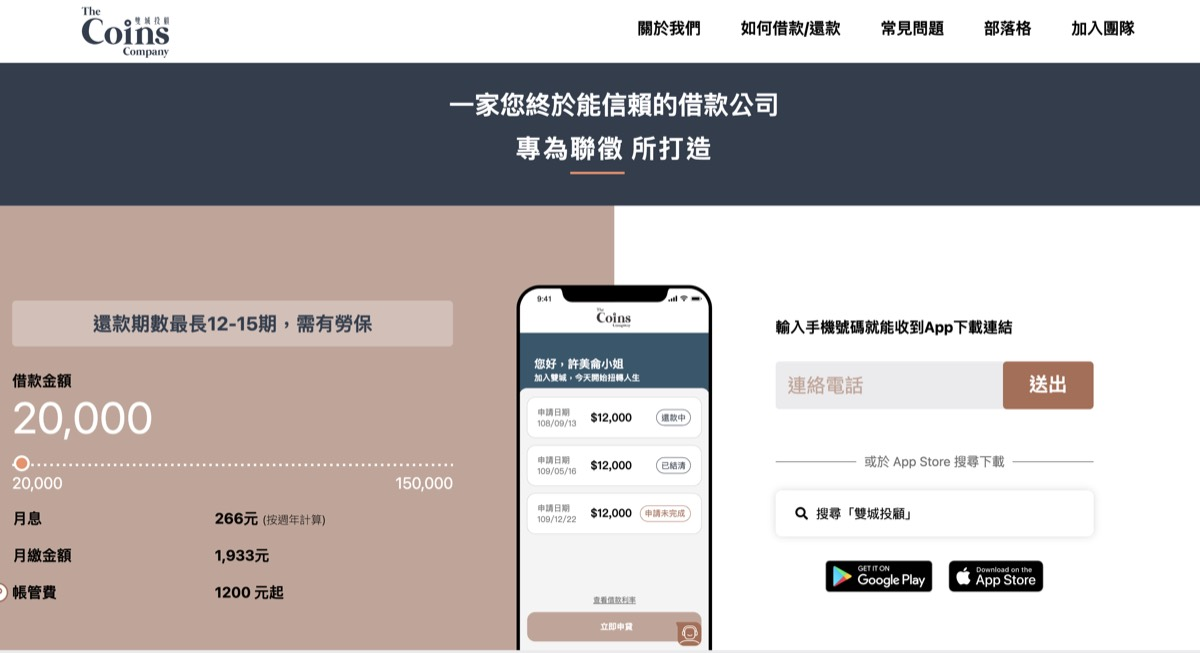
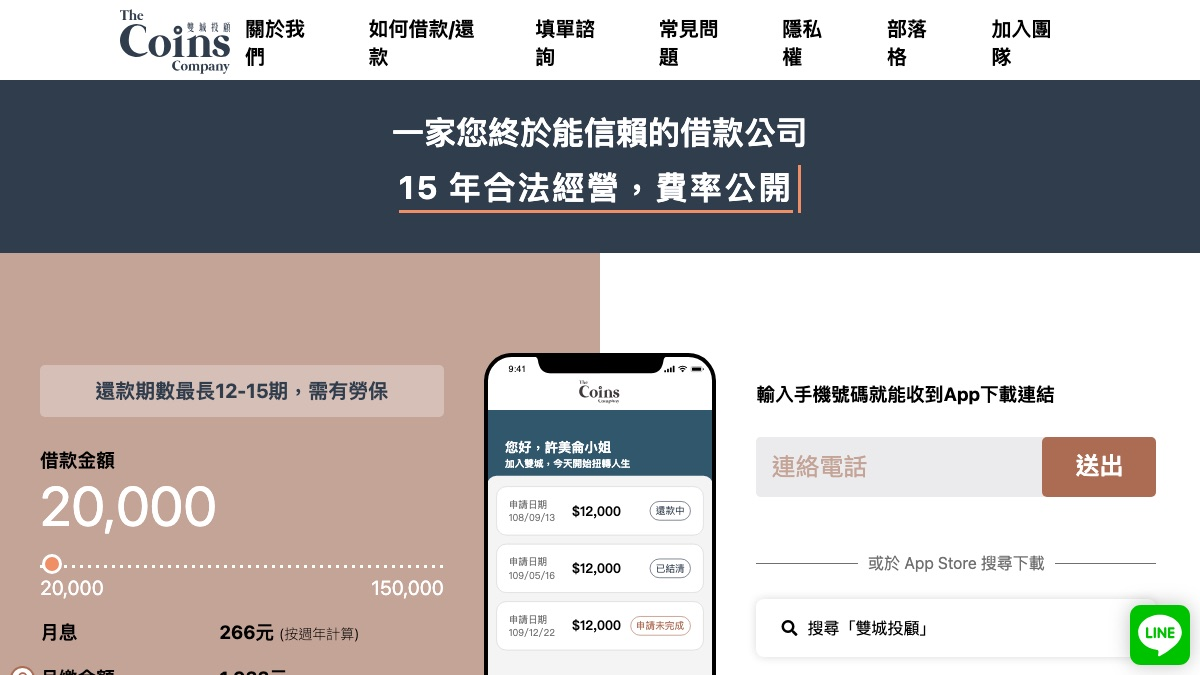
feat(resume): 內容向 Thingnario 全端職缺靠攏並統一封面樣式
- 文案聚焦 Node.js / TypeScript / React，去除誇大與 AI 味用語（中英同步）
- 封面說明整合為單一 Block，樣式沿用共用元件，移除重複的毛玻璃樣式
- 專案作品補上 Coffee Chat，並為線上網站重新截圖（16:9）
- 專案縮圖統一 aspect-ratio 16/9

diff --git a/src/pages/Cover/Cover.scss b/src/pages/Cover/Cover.scss
@@ -9,7 +9,9 @@
   display: flex;
   justify-content: center;
   align-items: center;
-  padding: 2rem;
+  // 水平間距交給外層 App 的 container/px-4，這裡不再額外內縮，
+  // 否則封面卡片會比下方 Block 多縮 2rem，左右邊緣對不齊
+  padding: 2rem 0;
   position: relative;
   // Removed solid background and overlay to let App background show
 }
@@ -72,45 +74,24 @@
     }
   }
 
-  .description_grid {
-    display: grid;
-    grid-template-columns: 1fr;
-    gap: 1.5rem;
+  // 外觀（底色、圓角、陰影）一律沿用 Block，這裡只負責內距與文字
+  .desc_item {
+    padding: 1.5rem;
 
-    @include tablet-up {
-      grid-template-columns: 1fr 1fr;
-    }
-
-    .desc_item {
-      // Match Block style: bg-white/black with opacity
-      background: rgba(255, 255, 255, 0.9);
-      backdrop-filter: blur(5px);
-      padding: 1.5rem;
-      border-radius: 15px; // Match content_block border-radius
-      box-shadow: 0 4px 6px -1px rgba(0, 0, 0, 0.05);
-      transition:
-        transform 0.3s ease,
-        box-shadow 0.3s ease;
+    p {
+      margin: 0;
+      line-height: 1.6;
+      color: $text-color;
+      font-size: 0.95rem;
+      // 與下方 Block 的內文一致靠左，不隨標題置中
+      text-align: left;
 
       .dark & {
-        background: rgba(0, 0, 0, 0.8);
-        border: 1px solid rgba(255, 255, 255, 0.1);
+        color: #d1d5db; // gray-300
       }
 
-      &:hover {
-        transform: translateY(-5px);
-        box-shadow: 0 10px 15px -3px rgba(0, 0, 0, 0.1);
-      }
-
-      p {
-        margin: 0;
-        line-height: 1.6;
-        color: $text-color;
-        font-size: 0.95rem;
-
-        .dark & {
-          color: #d1d5db; // gray-300
-        }
+      + p {
+        margin-top: 1rem;
       }
     }
   }

diff --git a/src/pages/Cover/Cover.js b/src/pages/Cover/Cover.js
@@ -3,6 +3,7 @@ import { useTranslation } from "react-i18next";
 
 import "./Cover.scss";
 import profileImg from "../../img/profile.jpg";
+import Block from "../../components/Block";
 
 const Cover = () => {
   const { t } = useTranslation("cover");
@@ -14,14 +15,10 @@ const Cover = () => {
           <h1>{t("title")}</h1>
           <div className="subtitle">{t("subtitle")}</div>
 
-          <div className="description_grid">
-            <div className="desc_item">
-              <p>{t("description.intro")}</p>
-            </div>
-            <div className="desc_item">
-              <p>{t("description.specialization")}</p>
-            </div>
-          </div>
+          <Block className="desc_item">
+            <p>{t("description.intro")}</p>
+            <p>{t("description.specialization")}</p>
+          </Block>
         </div>
 
         <div className="cover_profile_section">

diff --git a/public/index.html b/public/index.html
@@ -7,16 +7,16 @@
     <meta name="theme-color" content="#000000" />
     <meta
       name="description"
-      content="余勝允 (Brian Yu) 的個人作品集。8 年軟體開發經驗，現為 AI 工程師，獨立開發交友配對與活動揪團社群 App，從產品規劃、AI 實作到 iOS 上架。"
+      content="余勝允 (Brian Yu) 的個人作品集。8 年 Node.js / TypeScript 全端開發經驗，專長 NestJS 後端與 React 前端、程式重構與效能優化；現為 AI 工程師，獨立開發交友配對與活動揪團社群 App。"
     />
     <link rel="canonical" href="https://brianYuDesign.github.io/szu-yu-project/" />
 
     <!-- Open Graph -->
     <meta property="og:type" content="website" />
-    <meta property="og:title" content="余勝允 Brian Yu | AI 工程師 / 全端開發者" />
+    <meta property="og:title" content="余勝允 Brian Yu | 全端工程師 / AI 工程師" />
     <meta
       property="og:description"
-      content="余勝允 (Brian Yu) 的個人作品集。8 年軟體開發經驗，現為 AI 工程師，獨立開發交友配對與活動揪團社群 App。"
+      content="余勝允 (Brian Yu) 的個人作品集。8 年 Node.js / TypeScript 全端開發經驗，現為 AI 工程師，獨立開發交友配對與活動揪團社群 App。"
     />
     <meta property="og:url" content="https://brianYuDesign.github.io/szu-yu-project/" />
     <meta property="og:image" content="https://brianYuDesign.github.io/szu-yu-project/logo512.png" />
@@ -24,10 +24,10 @@
 
     <!-- Twitter Card -->
     <meta name="twitter:card" content="summary_large_image" />
-    <meta name="twitter:title" content="余勝允 Brian Yu | AI 工程師 / 全端開發者" />
+    <meta name="twitter:title" content="余勝允 Brian Yu | 全端工程師 / AI 工程師" />
     <meta
       name="twitter:description"
-      content="余勝允 (Brian Yu) 的個人作品集。8 年軟體開發經驗，現為 AI 工程師。"
+      content="余勝允 (Brian Yu) 的個人作品集。8 年 Node.js / TypeScript 全端開發經驗，現為 AI 工程師。"
     />
     <meta name="twitter:image" content="https://brianYuDesign.github.io/szu-yu-project/logo512.png" />
 
@@ -52,7 +52,7 @@
       work correctly both with client-side routing and a non-root public URL.
       Learn how to configure a non-root public URL by running `npm run build`.
     -->
-    <title>余勝允 Brian Yu | AI 工程師 / 全端開發者</title>
+    <title>余勝允 Brian Yu | 全端工程師 / AI 工程師</title>
   </head>
   <body>
     <noscript>You need to enable JavaScript to run this app.</noscript>

diff --git a/src/pages/Project.js b/src/pages/Project.js
@@ -8,6 +8,10 @@ import banalife from "../img/banalife.jpg";
 import numberslink from "../img/numberslink.jpg";
 import iflubby from "../img/iflubby.jpg";
 import cashme from "../img/cashme.jpg";
+import coffeechat from "../img/coffeechat.jpg";
+import boundapp from "../img/boundapp.jpg";
+import sugarbee from "../img/sugarbee.jpg";
+import hiyes from "../img/hiyes.jpg";
 
 const projectImages = {
   goatshumor: goatshumor,
@@ -15,6 +19,10 @@ const projectImages = {
   numberslink: numberslink,
   iflubby: iflubby,
   cashme: cashme,
+  coffeechat: coffeechat,
+  boundapp: boundapp,
+  sugarbee: sugarbee,
+  hiyes: hiyes,
 };
 
 const Project = () => {
@@ -34,9 +42,10 @@ const Project = () => {
           >
             {item.imgKey && projectImages[item.imgKey] && (
               <img
-                className="w-full hover:opacity-90 transition-opacity duration-300"
+                className="project_thumb hover:opacity-90 transition-opacity duration-300"
                 src={projectImages[item.imgKey]}
                 alt={item.name}
+                loading="lazy"
               />
             )}
             <div className="px-6 py-4">

diff --git a/src/App.scss b/src/App.scss
@@ -22,3 +22,13 @@
   height: 100%;
   width: 100%;
 }
+
+// 專案作品縮圖統一 16:9。各站截圖的原始高度不一（613 ~ 708），
+// 不固定比例的話卡片高度會參差；object-position 靠上是為了保留網站的 header 與主視覺。
+.project_thumb {
+  display: block;
+  width: 100%;
+  aspect-ratio: 16 / 9;
+  object-fit: cover;
+  object-position: top;
+}

diff --git a/src/components/Block.js b/src/components/Block.js
@@ -1,9 +1,11 @@
 import React from "react"
 
-const Block = props => {
+const Block = ({ className = "", children }) => {
   return (
-    <div className="bg-white dark:bg-black content_block shadow-xl">
-      {props.children}
+    <div
+      className={`bg-white dark:bg-black content_block shadow-xl ${className}`.trim()}
+    >
+      {children}
     </div>
   )
 }